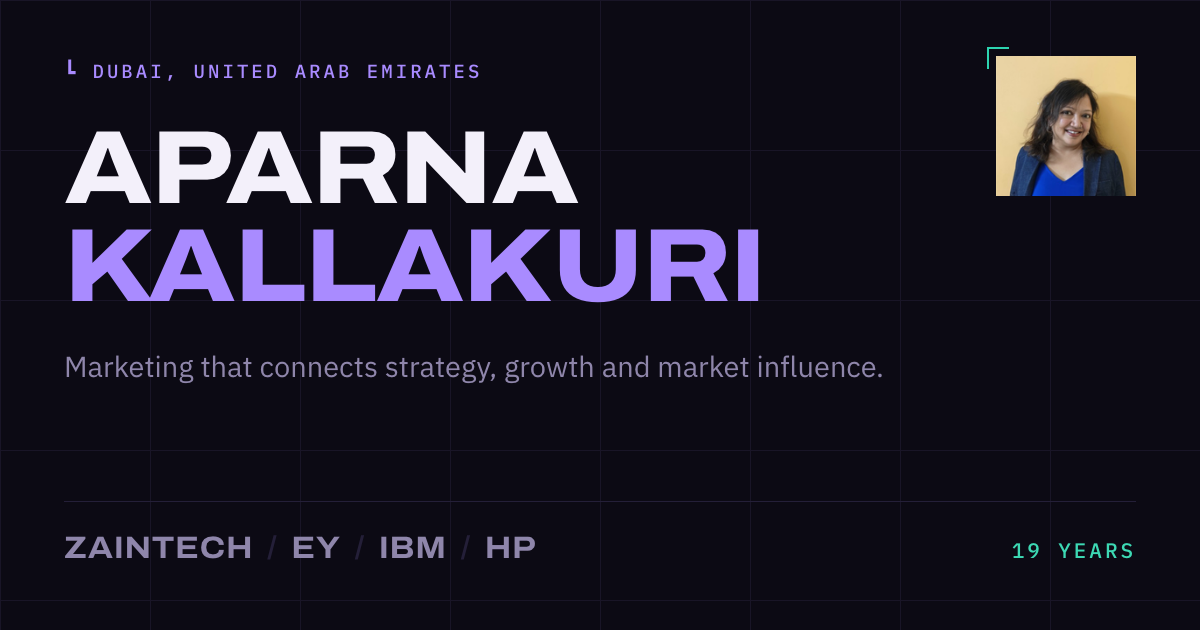
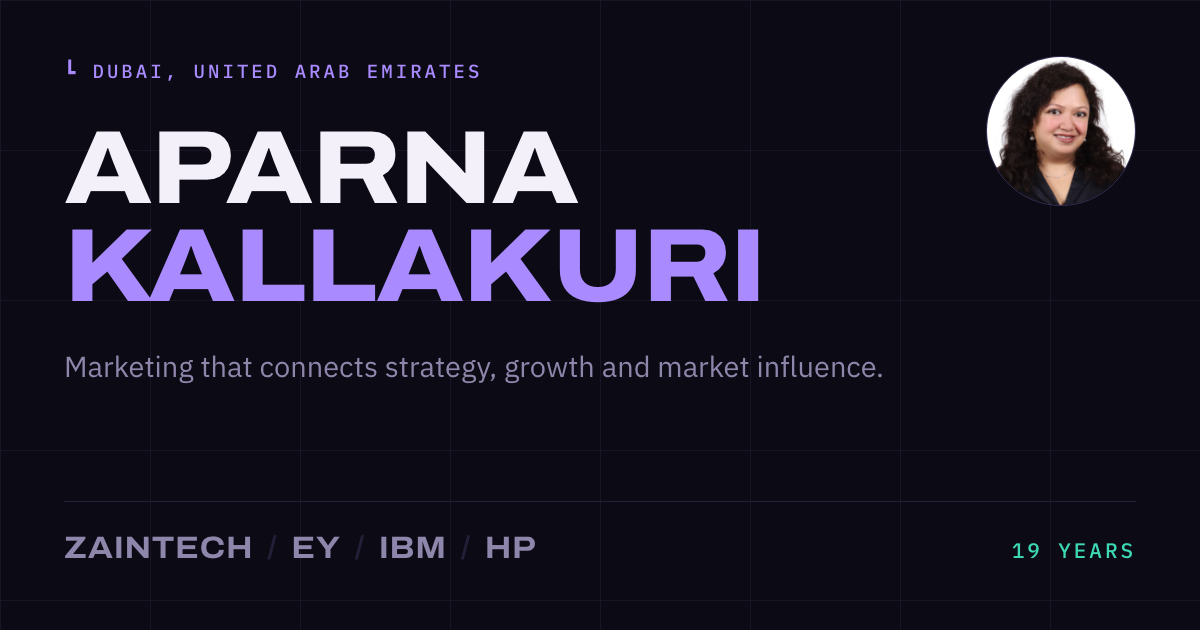
Replace the headshot, and set it as a larger circle
Uses the studio headshot she supplied, cropped square on the face and
stored at 640x640, replacing the 160x160 crop lifted from the resume PDF.
That closes the first open item in SITE-NOTES.

It now renders as a 172px circle rather than a 104px square, sized to the
height of the vitals block beside it so the two read as one unit. The
square corner tick is gone: it was a right angle pointing at a circle,
and it was teal, which the design system reserves for outcomes.

The link-preview card is rebuilt to match.

Claude-Session: https://claude.ai/code/session_01CqKKmTj4YWRepUyAUF375w

Changed region(s): [[0.8017, 0.0905, 0.9558, 0.3317]]

diff --git a/site/assets/css/styles.css b/site/assets/css/styles.css
@@ -368,17 +368,18 @@ a { color: inherit; }
   gap: var(--s-3);
   padding-top: 4px;
 }
+/* Sized to the vitals block beside it, so the two read as one unit. The square
+   corner tick that used to mark it is gone: it was a right angle pointing at a
+   circle, and it was teal, which this design system reserves for outcomes. */
 .hero__portrait { position: relative; flex: none; }
 .hero__portrait img {
-  width: 104px; height: 104px;
+  width: 172px; height: 172px;
   object-fit: cover;
+  border-radius: 50%;
   border: 1px solid var(--grid-strong);
 }
-.hero__portrait::after {
-  content: ""; position: absolute; left: -5px; top: -5px;
-  width: 12px; height: 12px;
-  border-left: 2px solid var(--signal);
-  border-top: 2px solid var(--signal);
+@media (max-width: 30rem) {
+  .hero__portrait img { width: 132px; height: 132px; }
 }
 /* Four figure-and-label pairs. Grouped with a gap so each figure reads with
    its own label rather than the block reading as one eight-line list. */

diff --git a/site/index.html b/site/index.html
@@ -32,7 +32,7 @@
 <link rel="preconnect" href="https://fonts.googleapis.com">
 <link rel="preconnect" href="https://fonts.gstatic.com" crossorigin>
 <link rel="stylesheet" href="https://fonts.googleapis.com/css2?family=Archivo:wdth,wght@62..125,400..900&family=IBM+Plex+Mono:wght@400;500&family=IBM+Plex+Sans:wght@400;500;600&display=swap">
-<link rel="stylesheet" href="/assets/css/styles.css?v=6a45e92563">
+<link rel="stylesheet" href="/assets/css/styles.css?v=61a6e6d693">
 
 <script>
   // Flag JS before first paint so reveal/tab states can hide things. Without
@@ -224,7 +224,7 @@
 
       <div class="hero__side" data-reveal>
         <div class="hero__portrait">
-          <img src="/assets/img/aparna-kallakuri.png" width="104" height="104"
+          <img src="/assets/img/aparna-kallakuri.png" width="172" height="172"
                alt="Aparna Kallakuri, marketing and communications leader based in Dubai">
         </div>
         <div class="hero__vitals">

diff --git a/scripts/og-card.html b/scripts/og-card.html
@@ -68,13 +68,13 @@
     font-family:"IBM Plex Mono",monospace;font-size:21px;font-weight:500;
     letter-spacing:.14em;color:var(--signal-ink);
   }
+  /* Circular, matching the site's hero portrait. */
   .portrait{
-    position:absolute;top:56px;right:64px;width:140px;height:140px;
+    position:absolute;top:56px;right:64px;width:150px;height:150px;
   }
-  .portrait img{width:100%;height:100%;object-fit:cover;display:block;}
-  .portrait::before{
-    content:"";position:absolute;top:-9px;left:-9px;width:22px;height:22px;
-    border-top:2px solid var(--signal);border-left:2px solid var(--signal);
+  .portrait img{
+    width:100%;height:100%;object-fit:cover;display:block;
+    border-radius:50%;border:1px solid var(--grid-strong);
   }
 </style>
 </head>

diff --git a/SITE-NOTES.md b/SITE-NOTES.md
@@ -4,12 +4,13 @@ Everything on the site traces to Aparna's résumé, her LinkedIn profile, or bot
 These are the points where the two sources disagree, or where a judgement call
 was made that she should confirm.
 
-### 1. The headshot is only 160×160
+### 1. The headshot ~~is only 160×160~~ — resolved Sep 2026
 
-It was extracted from the résumé PDF — the only copy available. It is sharp
-enough at the 148px it renders at, but soft on retina screens and in link
-previews. Replace `site/assets/img/aparna-kallakuri.png` with a 600px+ original
-and regenerate the link-preview card.
+Replaced with a proper studio headshot she supplied: cropped square on the face
+and stored at 640×640, so it stays sharp on retina screens and in the
+link-preview card. It renders as a 172px circle, sized to the vitals block
+beside it. The source crop is `sips -c 820 820 --cropOffset 70 160` from her
+original 1106×1280 frame.
 
 ### 2. ZainTECH end date
 
